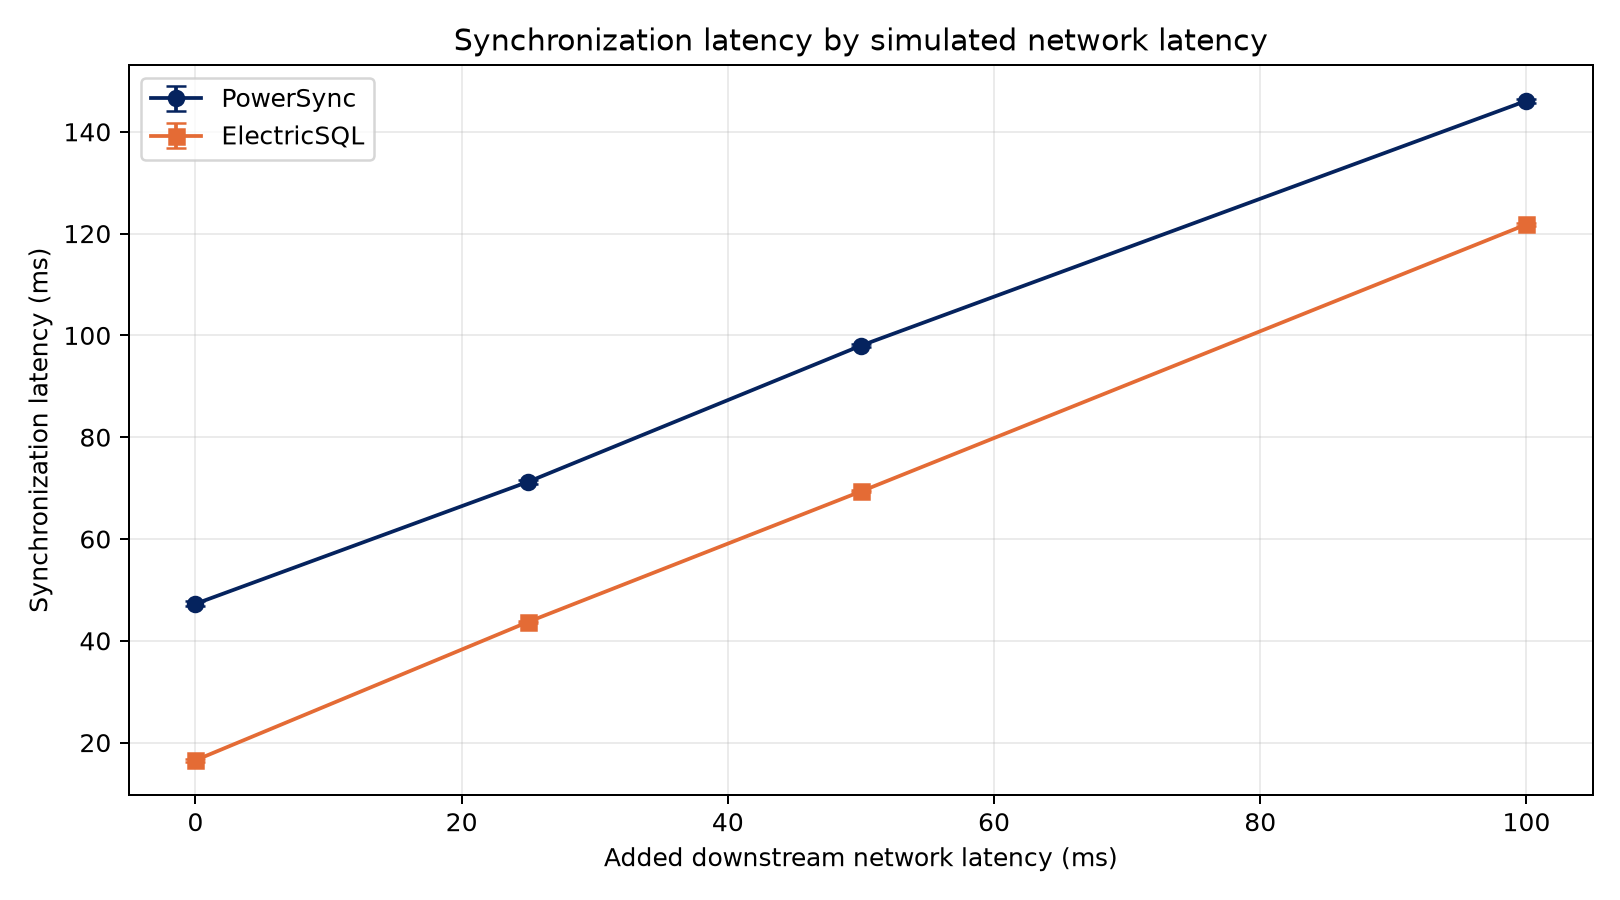
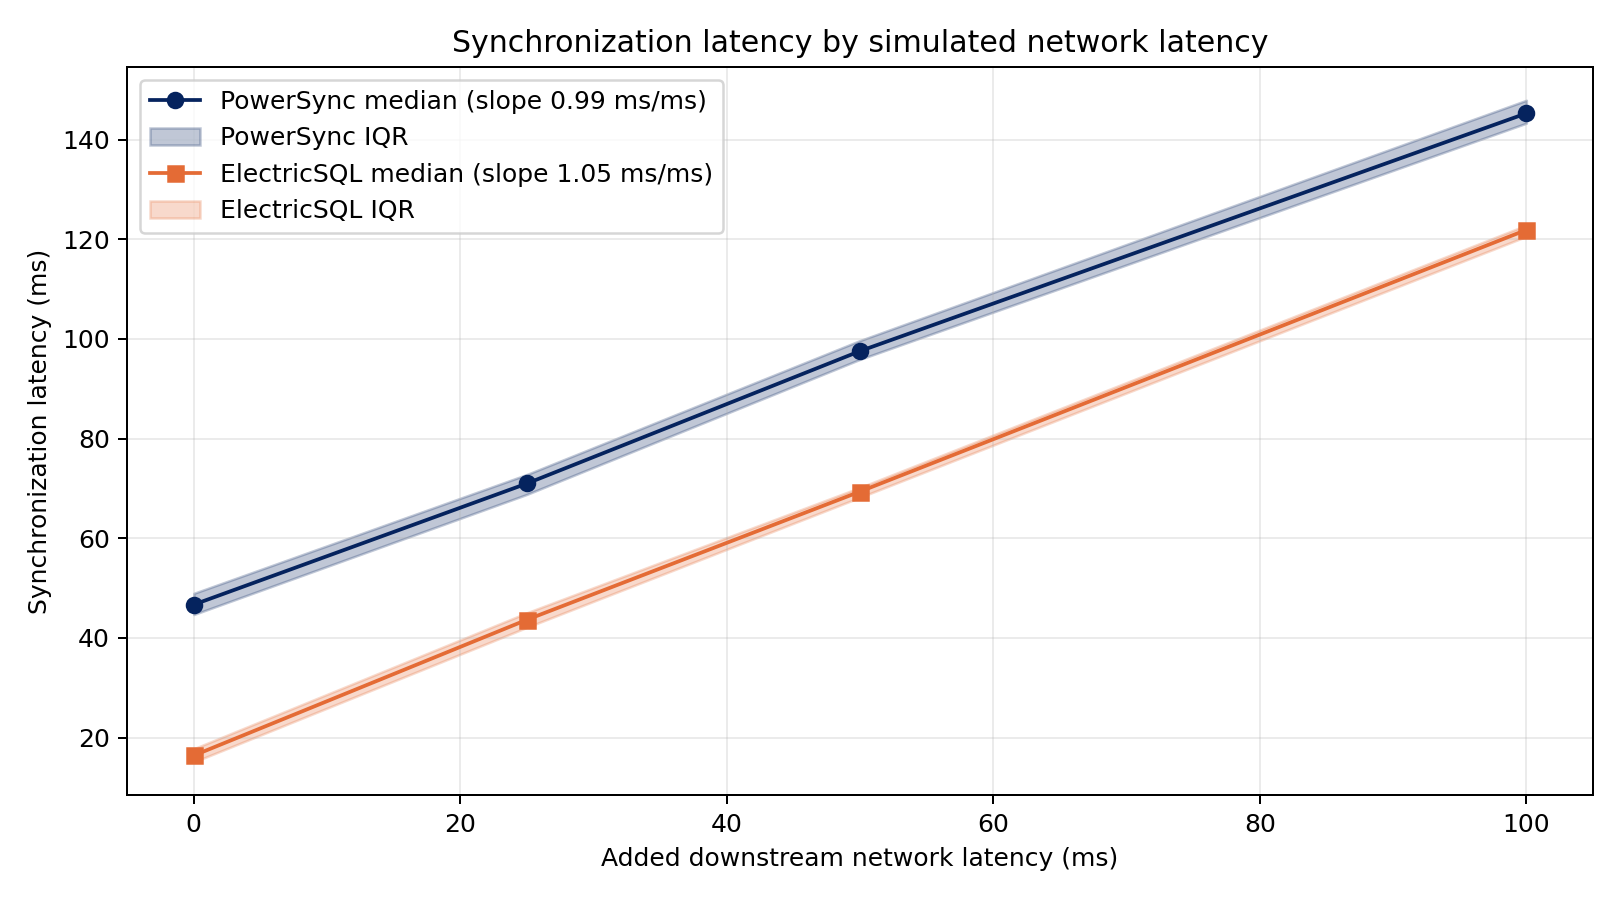
graph changes

diff --git a/analysis/analyze_latency.py b/analysis/analyze_latency.py
@@ -144,20 +144,27 @@ def make_plots(data: pd.DataFrame, network_data: pd.DataFrame, output_dir: Path)
 
     fig, ax = plt.subplots(figsize=(9, 5))
     for engine in order:
-        grouped = network_data.loc[network_data["engine"] == engine].groupby(
-            "network_latency_ms"
-        )["latency_ms"]
-        means = grouped.mean()
-        errors = grouped.sem().fillna(0)
-        ax.errorbar(
-            means.index,
-            means.values,
-            yerr=errors.values,
+        engine_data = network_data.loc[network_data["engine"] == engine]
+        grouped = engine_data.groupby("network_latency_ms")["latency_ms"]
+        medians = grouped.median()
+        q1 = grouped.quantile(0.25)
+        q3 = grouped.quantile(0.75)
+        slope = stats.linregress(engine_data["network_latency_ms"], engine_data["latency_ms"]).slope
+        ax.plot(
+            medians.index,
+            medians.values,
             marker=markers[engine],
-            capsize=4,
             linewidth=1.5,
-            label=engine,
+            label=f"{engine} median (slope {slope:.2f} ms/ms)",
             color=colors[engine],
+        )
+        ax.fill_between(
+            medians.index,
+            q1.values,
+            q3.values,
+            alpha=0.25,
+            color=colors[engine],
+            label=f"{engine} IQR",
         )
     ax.set_title("Synchronization latency by simulated network latency")
     ax.set_xlabel("Added downstream network latency (ms)")
@@ -189,14 +196,28 @@ def write_report(data: pd.DataFrame, summary: pd.DataFrame, paths: dict[str, Pat
         include_groups=False,
     )
     network_trends = []
+    slopes = {}
     for engine, group in data.groupby("engine", sort=False):
         if group["network_latency_ms"].nunique() < 2:
             network_trends.append(f"- **{engine}:** at least two network latency levels are required.")
             continue
         trend = stats.linregress(group["network_latency_ms"], group["latency_ms"])
+        t_critical = stats.t.ppf(0.975, len(group) - 2)
+        slopes[engine] = trend
         network_trends.append(
             f"- **{engine}:** {trend.slope:.3f} ms additional synchronization latency per "
-            f"1 ms imposed downstream delay (R² = {trend.rvalue**2:.3f}, p = {trend.pvalue:.6g})."
+            f"1 ms imposed downstream delay, 95% CI [{trend.slope - t_critical * trend.stderr:.3f}, "
+            f"{trend.slope + t_critical * trend.stderr:.3f}] (R² = {trend.rvalue**2:.3f})."
+        )
+    if len(slopes) == 2:
+        slope_difference = slopes["ElectricSQL"].slope - slopes["PowerSync"].slope
+        difference_se = np.sqrt(slopes["ElectricSQL"].stderr**2 + slopes["PowerSync"].stderr**2)
+        z = slope_difference / difference_se
+        p_difference = 2 * stats.norm.sf(abs(z))
+        network_trends.append(
+            f"- **Slope difference (ElectricSQL minus PowerSync):** {slope_difference:.3f} ms/ms, "
+            f"95% CI [{slope_difference - 1.96 * difference_se:.3f}, {slope_difference + 1.96 * difference_se:.3f}], "
+            f"z = {z:.2f}, p = {p_difference:.3g}."
         )
     network_trend_report = "\n".join(network_trends)
 

diff --git a/results/analysis/report.md b/results/analysis/report.md
@@ -58,8 +58,9 @@ Both tests address the narrow question of whether the observed latency distribut
 
 A separate linear trend is estimated for each engine across all configured delay levels:
 
-- **PowerSync:** 0.992 ms additional synchronization latency per 1 ms imposed downstream delay (R² = 0.988, p = 0).
-- **ElectricSQL:** 1.050 ms additional synchronization latency per 1 ms imposed downstream delay (R² = 0.996, p = 0).
+- **PowerSync:** 0.992 ms additional synchronization latency per 1 ms imposed downstream delay, 95% CI [0.981, 1.003] (R² = 0.988).
+- **ElectricSQL:** 1.050 ms additional synchronization latency per 1 ms imposed downstream delay, 95% CI [1.043, 1.057] (R² = 0.996).
+- **Slope difference (ElectricSQL minus PowerSync):** 0.058 ms/ms, 95% CI [0.045, 0.070], z = 8.94, p = 3.91e-19.
 
 A positive slope means synchronization latency increased as the imposed server-to-client delay increased. This fixed downstream delay models the path on which synchronized changes reach the client; it is not a general model of Internet conditions.
 
